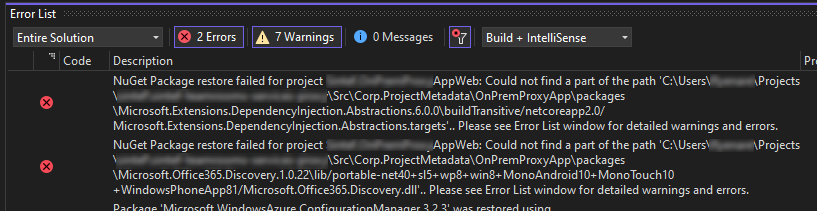
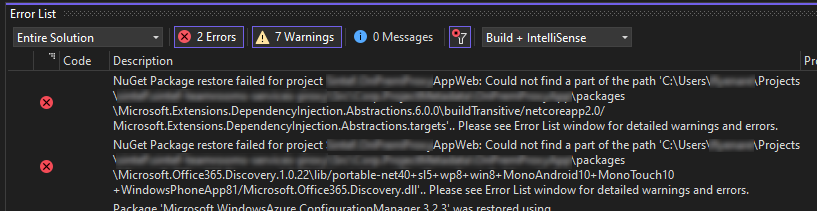
Updated article

Changed region(s): [[0.3978, 0.7109, 0.7038, 0.7962], [0.3978, 0.4265, 0.7038, 0.4834]]

diff --git a/content/posts/2022-12-22-nuget-package-restore-failed.md b/content/posts/2022-12-22-nuget-package-restore-failed.md
@@ -1,9 +1,9 @@
 ---
-title: NuGet Package restore failed for .NET project in Visual Studio
+title: NuGet Package restore failed for project in Visual Studio
 description: ""
 date: 2022-12-22T14:32:21.710Z
 preview: ""
-draft: true
+draft: false
 tags:
     - .NET
     - Visual Studio
@@ -11,8 +11,8 @@ categories:
     - Azure
 ---
 
-Moving to a new computer made me test out a new organization of my projects. Before I always have placed this on the root of the drive, in example C:\Projects. Now I though why not try out to follow my user's home directory like is more common when working in Linux (been doing a lot of work in 
-WSL and Ubuntu lately). Change is not always good and this time this led med into trouble. Restoring a larger project in Visual Studio failed when installing the NuGet Packages:
+Moving to a new computer made me test out a new organization of my development projects. Before I always have placed this on the root of the drive, in example C:\Projects. After doing a lot of work in 
+WSL and Ubuntu lately, I though why not try out to use my user's home directory like is more common when working in Linux. Change is not always good and this time this led med into trouble. Restoring a larger project in Visual Studio failed when installing the NuGet Packages:
 
 ![](/assets/2022/12/nuget-package-restore-failed-vs.png)
 
@@ -23,3 +23,10 @@ The error states "The NuGet Package restore failed for project ...". Checking th
 The problem ended up being the reason why you should keep to the pattern of storing the source code at a root folder. My projects folder hierarchy was simply to deep, making the folder path exceeding the limits of Windows.
 
 Moving the folder back down to **C:\Projects** solved the NuGet package issue.
+
+Example of suggested organization of development projects:
+
+* C:\Projects\Personal
+* C:\Projects\Customer A\Project 001
+* C:\Projects\Customer A\Project 002
+* C:\Projects\Customer B\Project 001
